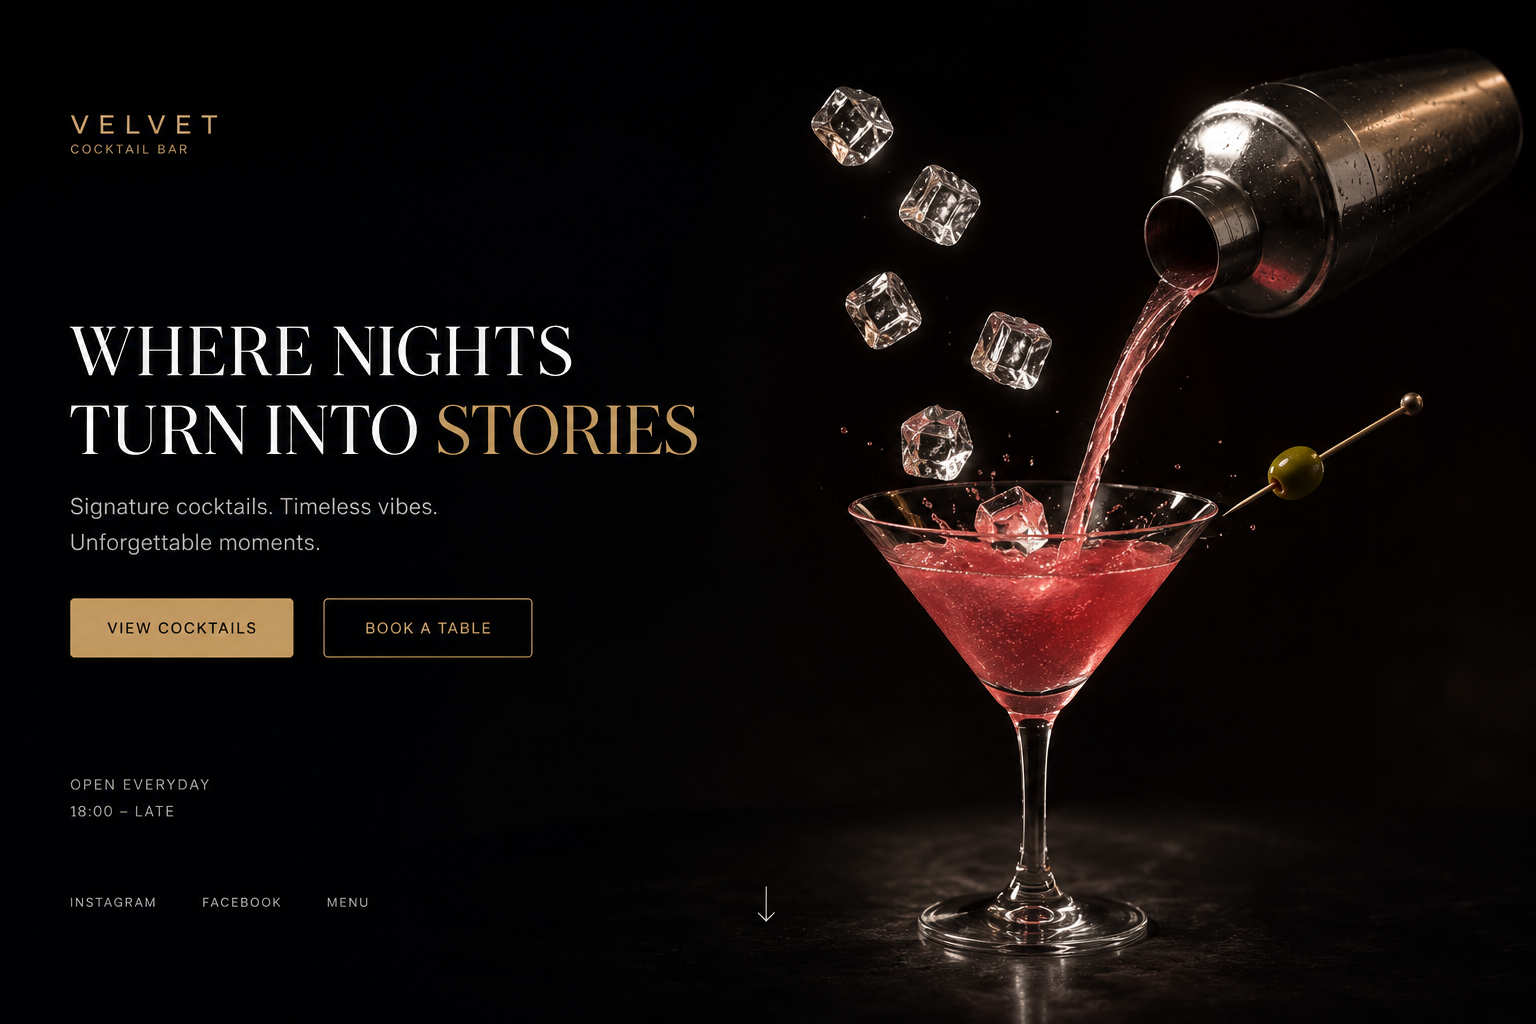
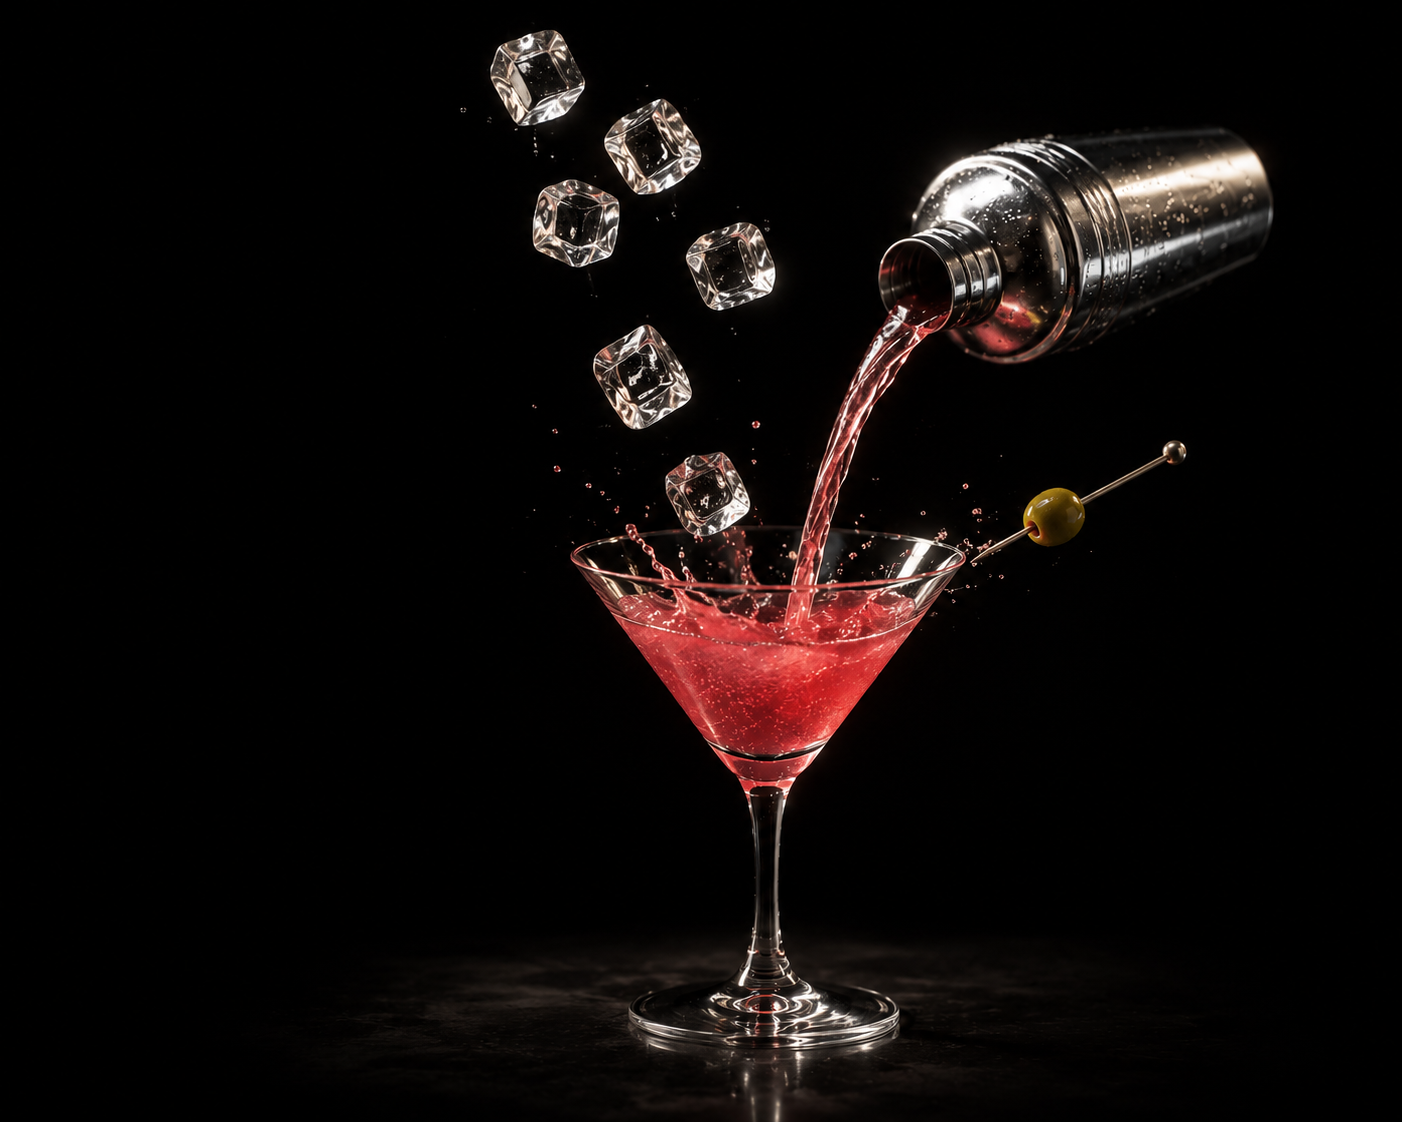
Replace cocktail hero image

diff --git a/cave-lounge/components/hero.tsx b/cave-lounge/components/hero.tsx
@@ -34,8 +34,7 @@ export default function Hero() {
           priority
           style={{
             objectFit: 'cover',
-            /* shift right so we see the cocktail half, not the Velvet text */
-            objectPosition: '78% center',
+            objectPosition: '60% center',
           }}
         />
         {/* Gradient fade: left edge blends into black */}